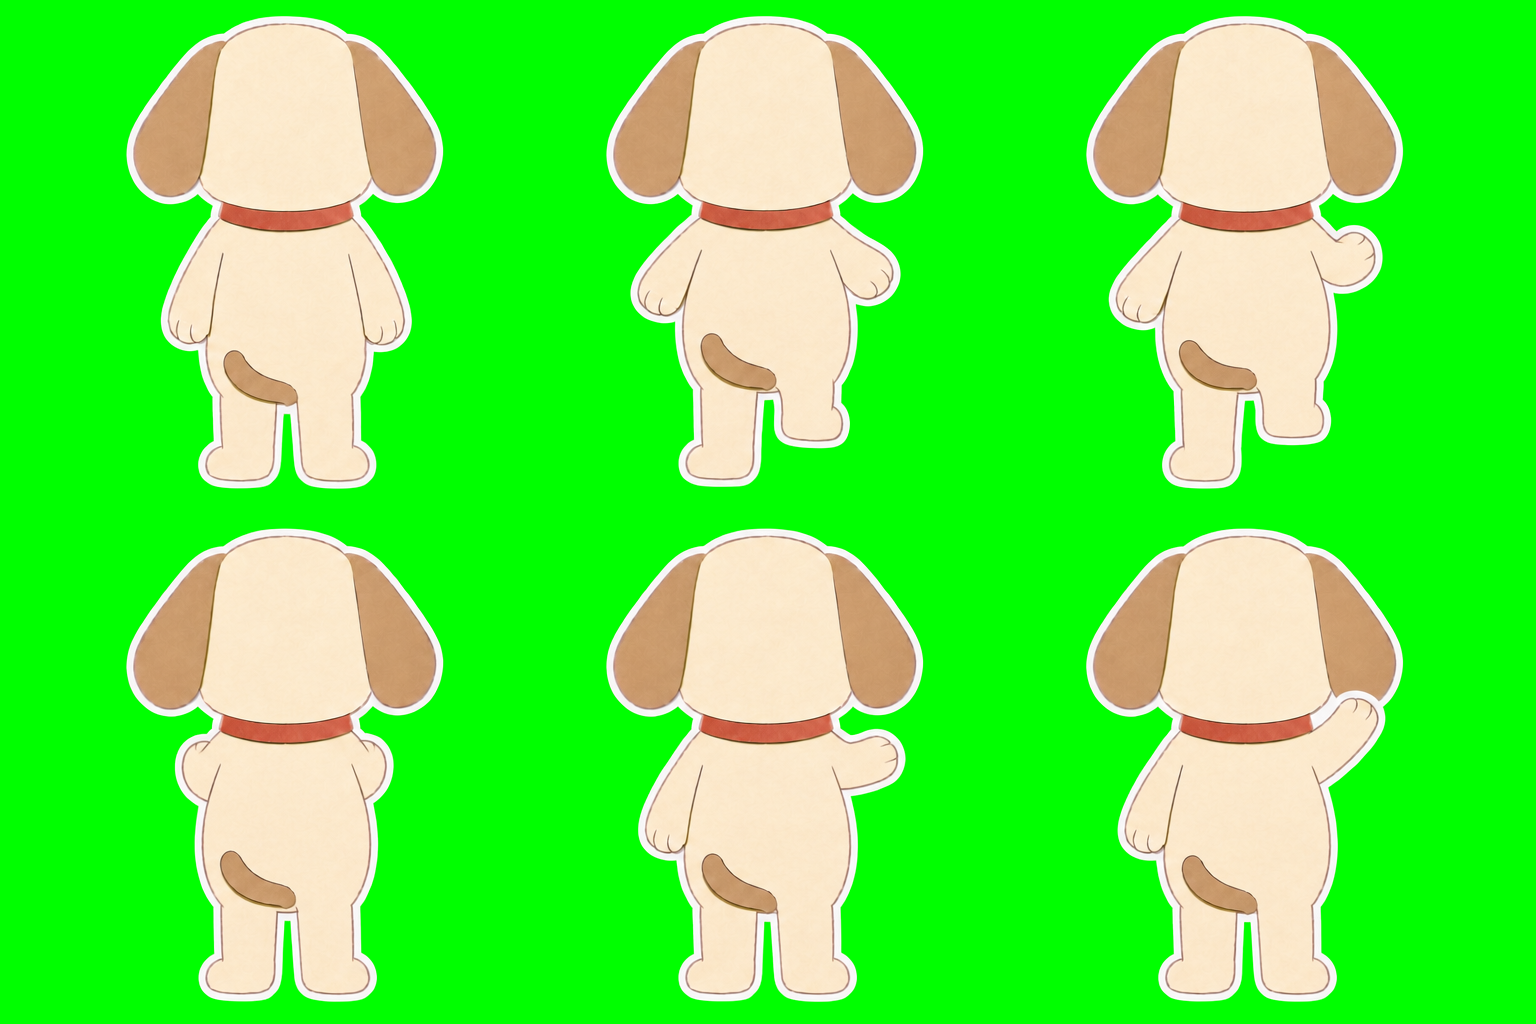
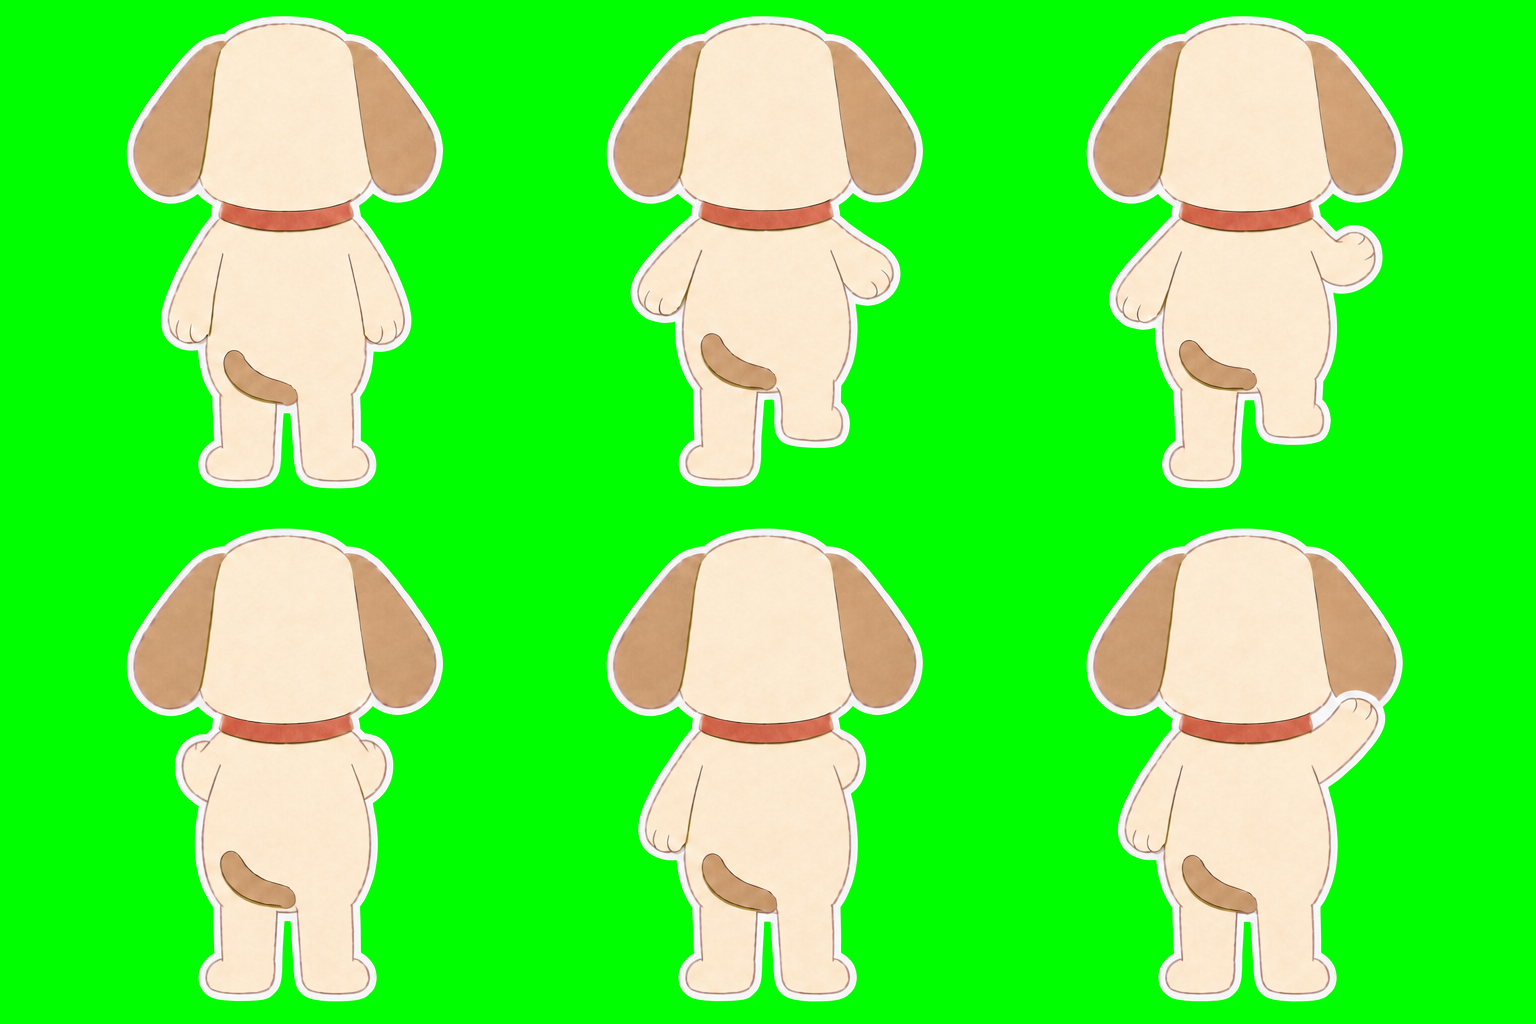
Primepaw: the puppy's pushing cell seen from behind hides the paw
A check of all twelve walk sheets, cell by cell, found the puppy's back sheet
with the same miss the robot's had: the fifth cell, the paw pushed forward, drew
that arm raised out to the side with the paw showing. A GPT Image 2.6 edit (seed
20261144) sends it forward so only a stub shows at the shoulder, like the cat's,
and changes nothing else. pet/dog-walk.png is rebuilt and uploaded to the canvas
as a new asset; the Pets boards name it. The pet README carries the edit, its
prompt and the check's findings, and it and the character skill name the Pets
board by its current name. Canvas v123.

Changed region(s): [[0.5312, 0.6875, 0.5938, 0.7812]]

diff --git a/mockups/primepaw/DioramaPets.dc.html b/mockups/primepaw/DioramaPets.dc.html
@@ -200,7 +200,7 @@ const STATES = [{ id: 'roam', t: 'Roam' }, { id: 'working', t: 'Work' }, { id: '
 const onStandee = (fn) => window.PetStandee ? fn(window.PetStandee) : document.addEventListener('pet-standee', () => fn(window.PetStandee), { once: true });
 const FACING = (dx, dy) => Math.abs(dx) >= Math.abs(dy) ? (dx >= 0 ? 'right' : 'left') : (dy >= 0 ? 'down' : 'up');
 const BUBBLE = { working: 'Writing the parser', attention: 'Needs a staging token' };
-const SHEETS = {"robot":{"layout":"sheet","cols":6,"rows":4,"cell":{"w":256,"h":320},"columns":["stand","stomp-left","stomp-right","work-up","work-forward","wave"],"facings":["down","left","right","up"],"sheet":{"w":1536,"h":1280},"standing":0.86,"src":"/_blob/21d0915356dadf4fbcb2992c973934bc"},"dog":{"layout":"sheet","cols":6,"rows":4,"cell":{"w":256,"h":320},"columns":["stand","stomp-left","stomp-right","work-up","work-forward","wave"],"facings":["down","left","right","up"],"sheet":{"w":1536,"h":1280},"standing":0.86,"src":"/_blob/bd60c38b84f66616f8224e74bdf4d2cf"},"cat":{"layout":"sheet","cols":6,"rows":4,"cell":{"w":256,"h":320},"columns":["stand","stomp-left","stomp-right","work-up","work-forward","wave"],"facings":["down","left","right","up"],"sheet":{"w":1536,"h":1280},"standing":0.86,"src":"/_blob/eea99f7a9ab642aecf06ca931c83d617"}}, WALK_H = 104; // the standing figure's height on the floor
+const SHEETS = {"robot":{"layout":"sheet","cols":6,"rows":4,"cell":{"w":256,"h":320},"columns":["stand","stomp-left","stomp-right","work-up","work-forward","wave"],"facings":["down","left","right","up"],"sheet":{"w":1536,"h":1280},"standing":0.86,"src":"/_blob/21d0915356dadf4fbcb2992c973934bc"},"dog":{"layout":"sheet","cols":6,"rows":4,"cell":{"w":256,"h":320},"columns":["stand","stomp-left","stomp-right","work-up","work-forward","wave"],"facings":["down","left","right","up"],"sheet":{"w":1536,"h":1280},"standing":0.86,"src":"/_blob/35aac9300e6736cfcdaad5c2af995090"},"cat":{"layout":"sheet","cols":6,"rows":4,"cell":{"w":256,"h":320},"columns":["stand","stomp-left","stomp-right","work-up","work-forward","wave"],"facings":["down","left","right","up"],"sheet":{"w":1536,"h":1280},"standing":0.86,"src":"/_blob/eea99f7a9ab642aecf06ca931c83d617"}}, WALK_H = 104; // the standing figure's height on the floor
 const SPEED = 92; // px per second
 // the round: feet points on the floor (x as a share of the floor's width, since the floor is as wide as its column;
 // y in px, since it is always 260 tall), what a walker does when it gets to each corner, and the corner each starts at

diff --git a/mockups/primepaw/DioramaPetsDark.dc.html b/mockups/primepaw/DioramaPetsDark.dc.html
@@ -200,7 +200,7 @@ const STATES = [{ id: 'roam', t: 'Roam' }, { id: 'working', t: 'Work' }, { id: '
 const onStandee = (fn) => window.PetStandee ? fn(window.PetStandee) : document.addEventListener('pet-standee', () => fn(window.PetStandee), { once: true });
 const FACING = (dx, dy) => Math.abs(dx) >= Math.abs(dy) ? (dx >= 0 ? 'right' : 'left') : (dy >= 0 ? 'down' : 'up');
 const BUBBLE = { working: 'Writing the parser', attention: 'Needs a staging token' };
-const SHEETS = {"robot":{"layout":"sheet","cols":6,"rows":4,"cell":{"w":256,"h":320},"columns":["stand","stomp-left","stomp-right","work-up","work-forward","wave"],"facings":["down","left","right","up"],"sheet":{"w":1536,"h":1280},"standing":0.86,"src":"/_blob/21d0915356dadf4fbcb2992c973934bc"},"dog":{"layout":"sheet","cols":6,"rows":4,"cell":{"w":256,"h":320},"columns":["stand","stomp-left","stomp-right","work-up","work-forward","wave"],"facings":["down","left","right","up"],"sheet":{"w":1536,"h":1280},"standing":0.86,"src":"/_blob/bd60c38b84f66616f8224e74bdf4d2cf"},"cat":{"layout":"sheet","cols":6,"rows":4,"cell":{"w":256,"h":320},"columns":["stand","stomp-left","stomp-right","work-up","work-forward","wave"],"facings":["down","left","right","up"],"sheet":{"w":1536,"h":1280},"standing":0.86,"src":"/_blob/eea99f7a9ab642aecf06ca931c83d617"}}, WALK_H = 104; // the standing figure's height on the floor
+const SHEETS = {"robot":{"layout":"sheet","cols":6,"rows":4,"cell":{"w":256,"h":320},"columns":["stand","stomp-left","stomp-right","work-up","work-forward","wave"],"facings":["down","left","right","up"],"sheet":{"w":1536,"h":1280},"standing":0.86,"src":"/_blob/21d0915356dadf4fbcb2992c973934bc"},"dog":{"layout":"sheet","cols":6,"rows":4,"cell":{"w":256,"h":320},"columns":["stand","stomp-left","stomp-right","work-up","work-forward","wave"],"facings":["down","left","right","up"],"sheet":{"w":1536,"h":1280},"standing":0.86,"src":"/_blob/35aac9300e6736cfcdaad5c2af995090"},"cat":{"layout":"sheet","cols":6,"rows":4,"cell":{"w":256,"h":320},"columns":["stand","stomp-left","stomp-right","work-up","work-forward","wave"],"facings":["down","left","right","up"],"sheet":{"w":1536,"h":1280},"standing":0.86,"src":"/_blob/eea99f7a9ab642aecf06ca931c83d617"}}, WALK_H = 104; // the standing figure's height on the floor
 const SPEED = 92; // px per second
 // the round: feet points on the floor (x as a share of the floor's width, since the floor is as wide as its column;
 // y in px, since it is always 260 tall), what a walker does when it gets to each corner, and the corner each starts at

diff --git a/mockups/primepaw/pet/README.md b/mockups/primepaw/pet/README.md
@@ -19,7 +19,7 @@ folder under another id. The `primepaw-character` skill in `.claude/skills/` wal
 building it and wiring it into the picker and the boards. The cat (`cat`) is the second one and the robot dog (`robot`) the third, drawn with that skill from the
 puppy's prompts with their slots refilled; "The characters" below has their values.
 
-See `DioramaPet.dc.html` for the three side by side, with every mood and the standee walking a round.
+See `DioramaPets.dc.html` for the three side by side, with every mood and the standee walking a round.
 
 ## How the peeking puppy plays
 
@@ -89,9 +89,9 @@ height as it turns), and lays them out with the flat cut edge, or the feet, on o
 
 | Id | Picker | Peeking frame | Where | Drawn |
 | --- | --- | --- | --- | --- |
-| `dog` | A paper puppy | 101x104 CSS px | the picker; worn by every board until the robot dog; `DioramaPet.dc.html` | by hand; the prompts below |
-| `cat` | A paper cat | 104x114 CSS px | the picker only, not worn; `DioramaPetCat.dc.html` | by the `primepaw-character` skill; the puppy's prompts with the slots below |
-| `robot` | A paper robot dog | 111x135 CSS px | worn by every board; `DioramaPetRobot.dc.html` | by the `primepaw-character` skill, the first through its options step; the puppy's prompts with the slots below |
+| `dog` | A paper puppy | 101x104 CSS px | the picker; worn by every board until the robot dog; `DioramaPets.dc.html` | by hand; the prompts below |
+| `cat` | A paper cat | 104x114 CSS px | the picker only, not worn; `DioramaPets.dc.html` | by the `primepaw-character` skill; the puppy's prompts with the slots below |
+| `robot` | A paper robot dog | 111x135 CSS px | worn by every board; `DioramaPets.dc.html` | by the `primepaw-character` skill, the first through its options step; the puppy's prompts with the slots below |
 
 The cat's slot values, as the skill's templates in `references/prompts.md` took them:
 
@@ -279,7 +279,7 @@ start.
 
 **The walk sheets** (1536 by 1024, GPT Image 2.6, the turnaround first and the body second, one per
 facing; seeds 20261108 to 20261111 for the puppy, 20261112 to 20261115 for the cat and 20261135 to 20261138 for the robot dog, down, left, right,
-up, every first seed kept but the robot dog's back, edited four times, below). The front: "The first reference image is a character turnaround of the paper cut-out a friendly floppy-eared puppy: its front, its left side, its back and its right side. The second reference image is the same character from the front. Draw the character exactly as the turnaround's first figure, the front shows it (the same cream paper face, kraft brown floppy ears and eye patch, red collar with its tag, pink cheeks, pen-ink features, the white die-cut sticker border), as a stop-motion sprite sheet: a grid of 3 columns and 2 rows, 6 cells of equal size, on a solid flat bright green (#00FF00) background, with no grid lines, no borders, no labels and no text. The 6 cells read left to right along the top row and then along the bottom row. In every cell the character is the same drawing at the same size as in the turnaround, seen straight from the front, facing the viewer, its body upright and square to the viewer in every cell, never turning, its feet on the same ground line, its head, body, ears and tail exactly alike from cell to cell, so that the six cells play as one animation of one figure. The 6 cells: 1. standing still with both paws relaxed at its sides, both feet planted, exactly like the turnaround's first figure, the front; 2. marching on the spot, a stomp: its right foot stays planted flat on the ground and its left foot is lifted a little way straight up off the ground, the foot kept flat and level exactly as it is when standing, the leg a little shorter and bent only a little at the knee, staying directly under the body, the sole never showing, the body a touch higher, the arms swinging, the left paw a little forward and the right a little back; 3. the other stomp: its left foot planted flat and its right foot lifted flat the same way, the arms swinging the other way; 4. working, both paws raised up in front of its chest as if typing on a keyboard; 5. working, one paw pushed forward as if pressing a button; 6. waving hello with one paw raised high above its head. Flat paper, no shadows, no gradients, like a paper puppet moved between photographs."
+up, every first seed kept but the robot dog's back, edited four times, and the puppy's back, edited once for its pushing cell, below). The front: "The first reference image is a character turnaround of the paper cut-out a friendly floppy-eared puppy: its front, its left side, its back and its right side. The second reference image is the same character from the front. Draw the character exactly as the turnaround's first figure, the front shows it (the same cream paper face, kraft brown floppy ears and eye patch, red collar with its tag, pink cheeks, pen-ink features, the white die-cut sticker border), as a stop-motion sprite sheet: a grid of 3 columns and 2 rows, 6 cells of equal size, on a solid flat bright green (#00FF00) background, with no grid lines, no borders, no labels and no text. The 6 cells read left to right along the top row and then along the bottom row. In every cell the character is the same drawing at the same size as in the turnaround, seen straight from the front, facing the viewer, its body upright and square to the viewer in every cell, never turning, its feet on the same ground line, its head, body, ears and tail exactly alike from cell to cell, so that the six cells play as one animation of one figure. The 6 cells: 1. standing still with both paws relaxed at its sides, both feet planted, exactly like the turnaround's first figure, the front; 2. marching on the spot, a stomp: its right foot stays planted flat on the ground and its left foot is lifted a little way straight up off the ground, the foot kept flat and level exactly as it is when standing, the leg a little shorter and bent only a little at the knee, staying directly under the body, the sole never showing, the body a touch higher, the arms swinging, the left paw a little forward and the right a little back; 3. the other stomp: its left foot planted flat and its right foot lifted flat the same way, the arms swinging the other way; 4. working, both paws raised up in front of its chest as if typing on a keyboard; 5. working, one paw pushed forward as if pressing a button; 6. waving hello with one paw raised high above its head. Flat paper, no shadows, no gradients, like a paper puppet moved between photographs."
 
 The other three change the figure the prompt points at and the facing clause: the left side ("second
 figure, the left side"; "from the side in strict profile, turned to face the left edge of the picture, so
@@ -295,3 +295,5 @@ off the ground directly under the body, the back of its heel toward the viewer, 
 never a leg angled out to the side").
 
 **The robot dog's back sheet** came back with two tails in every cell, the one lying across the back and a second hanging between the legs, and it took two edits of it (1536 by 1024, GPT Image 2.6, the sheet itself as the first reference and the body as the second) to land the tail, both opening the way the turnaround's edit did: "The first reference image is a stop-motion sprite sheet of a paper cut-out friendly angular robot hound seen from directly behind, facing straight away from the viewer: a grid of 3 columns and 2 rows, 6 cells of equal size, on a solid flat bright green (#00FF00) background. The second reference image is the same character from the front." The first edit (seed 20261139) took the hanging tail away: "...Reproduce the sprite sheet exactly as it is, every figure the same size and in the same place in its cell, in the same pose, with the same colours, the same pen-ink outlines, the same pen-drawn panel lines, the same faint paper grain and the same white die-cut sticker border around each figure, on the same solid flat bright green background with no grid lines, no borders, no labels and no text, changing only one thing, the same way in every one of the six cells: the robot hound has exactly one tail. Right now each figure shows two tails. The second tail, the short one hanging straight down from the middle of the bottom of its back between its legs, is removed, and that spot becomes plain sheet-white paper back panel (#fbf7ee) with the same pen-drawn panel lines, the two legs meeting the body as before. The one tail that stays is the one already sticking out sideways to the left of the picture: its short pointed kraft brown paper tail (#d9bc86) with its blue tip, starting at the centre of its rump at the bottom of its back right where the two legs meet the body and sticking out across its back to the left with its tip up near the left edge of its body, the whole tail visible, the same size, shape and colours as it is now. Nothing else about any cell changes: the head, the backs of the ears with their blue tips, the back of the red collar, the paws, the feet and each cell's pose stay exactly as they are. Flat paper, no shadows, no gradients, not 3D." It did, but the tail it kept started at the hip, at the side of the body, not at the centre the words asked for. The second (seeds 20261140 and 20261141) moved it: "...changing only one thing, the same way in every one of the six cells: where the tail starts. Right now the tail sticks out from the left hip, from the side of the body. Instead, seen from directly behind, the robot hound's short pointed kraft brown paper tail (#d9bc86) with its blue tip starts at the centre of its rump, in the middle of the bottom of its back right where the two legs meet the body, and sticks out sideways to the left of the picture, lying across the sheet-white back with its tip up near the left edge of the body. The whole tail is visible from behind: its base at the centre of the rump, its length going to the left across the back, its tip pointing up at the left, the same kraft brown paper with the same blue tip, the same pen outline and about the same size as the tail the front view shows peeking out at its hip, which is this same tail seen from the other side. It does not point straight up, does not hang down between the legs and does not start at the side of the body: it starts at the centre and goes to the left. The side of the body where the tail used to stick out becomes plain sheet-white paper (#fbf7ee) with the same panel lines, the white die-cut border following the body's outline there. Nothing else about any cell changes: the head, the backs of the ears with their blue tips, the back of the red collar, the paws, the feet and each cell's pose stay exactly as they are. Flat paper, no shadows, no gradients, not 3D." The first of that pair put the tail at the centre but hanging down between the legs; the second has it starting at the centre and sticking out to the left. That sheet's typing cell, the fourth, still had its arms bent up with the fists beside the shoulders, where the puppy's and the cat's show the upper arms going down the sides with only the elbows out; a third edit (seed 20261142, the same opening and the same two references) put them right: "...changing only one thing, in one cell only: the arms of the fourth cell, the first cell of the bottom row. In that cell the robot hound is working, both paws raised up in front of its chest as if typing on a keyboard, and seen from directly behind its paws and forearms are out of sight in front of its body. Right now that cell's arms are drawn wrong: they are bent upward with the fists raised beside its shoulders, out at the sides. Instead, its two angular sheet-white paper upper arms go straight down from its shoulders along the sides of its body, exactly as they do in the first cell, the one standing still, and about halfway down the body each elbow bends forward so that the forearm and the paw go out of sight in front of the body; from behind only the two elbows show, each poking out a little at the side of the body about halfway down its back, as a small angular sheet-white paper corner with the same pen-ink outline and panel lines, nothing raised above them and no paws visible anywhere. The head, the backs of the ears with their blue tips, the back of the red collar, the body, the tail, the two legs, the feet and the pose of that cell stay exactly as they are, and the white die-cut sticker border follows the arms' new outline. The other five cells do not change at all. Flat paper, no shadows, no gradients, not 3D." It changed that cell alone. The pushing cell, the fifth, still raised its arm out to the side with the paw showing, where the cat's keeps it forward and hidden (the puppy's raises it too); a fourth edit (seed 20261143, the same opening and references) tucked it away: "...changing only one thing, in one cell only: the raised arm of the fifth cell, the middle cell of the bottom row. In that cell the robot hound is working, one paw pushed forward in front of it as if pressing a button, and seen from directly behind the pushed paw and its forearm are out of sight in front of its body. Right now that cell's arm is drawn wrong: the arm on the right side of the picture is raised out to the side at shoulder height with its paw showing. Instead, that arm goes forward from the shoulder, away from the viewer, so that from behind only the shoulder and a short stub of the angular sheet-white paper upper arm show, poking out a little at the right side of the body just below the red collar, with the same pen-ink outline and panel lines, and no paw is visible anywhere; the other arm, on the left side of the picture, stays hanging down at the side exactly as it is now. The head, the backs of the ears with their blue tips, the back of the red collar, the body, the tail, the two legs, the feet and the pose of that cell stay exactly as they are, and the white die-cut sticker border follows the arm's new outline. The other five cells do not change at all. Flat paper, no shadows, no gradients, not 3D." It changed that cell alone and is the sheet in use.
+
+**The puppy's back sheet** had the same pushing cell, its arm raised out to the side with the paw showing, and one edit (seed 20261144; its own sheet first, its body second; the robot's opening with the puppy's words) tucked it away the same way: "...changing only one thing, in one cell only: the raised arm of the fifth cell, the middle cell of the bottom row. In that cell the puppy is working, one paw pushed forward in front of it as if pressing a button, and seen from directly behind the pushed paw and its forearm are out of sight in front of its body. Right now that cell's arm is drawn wrong: the arm on the right side of the picture is raised out to the side at shoulder height with its paw showing. Instead, that arm goes forward from the shoulder, away from the viewer, so that from behind only the shoulder and a short stub of the cream paper upper arm show, poking out a little at the right side of the body just below the red collar, with the same pen-ink outline, and no paw is visible anywhere; the other arm, on the left side of the picture, stays hanging down at the side exactly as it is now. The head, the backs of the floppy kraft brown ears, the back of the red collar, the cream body, the kraft brown tail, the two legs, the feet and the pose of that cell stay exactly as they are, and the white die-cut sticker border follows the arm's new outline. The other five cells do not change at all. Flat paper, no shadows, no gradients, not 3D." It changed that cell alone and is the sheet in use. The cat's sheets needed nothing: a check of all twelve walk sheets, cell by cell, found only these two pushing cells clearly off, and the front stomps of the robot dog and the puppy lifting the foot angled rather than flat, which was left as it reads fine in motion.

diff --git a/mockups/primepaw/.claude/skills/primepaw-character/SKILL.md b/mockups/primepaw/.claude/skills/primepaw-character/SKILL.md
@@ -16,7 +16,7 @@ all read those cuts by name, so a new character is a new set of files under `pet
 | The standee | `pet/<id>-walk.png`, the Factory Overseer's pet sheet: 6 columns (standing, the two stomps of a walk, two beats of work, a wave) by 4 facings, every cell one drawing of the whole figure; `pet/<id>-walk.json`, what each holds; `pet/standee.js` plays it one cell at a time | The factory floor, and the Pet board's mock of it, as `.standee` |
 | The sources | `pet/src/<id>/`: the six mood sheets, `avatar.png`, `body.png`, `turnaround.png` (the character from its four sides, which the walk sheets copy) and four `walk-*.png` (each facing's six poses of the standee), all on chroma-key green, plus `base.png`, the drawing the edits started from and the peeking pose the mood sheets copy | Inputs to `build.py`; kept so any cut can be re-sliced or redrawn from the same base (the puppy's base was not kept; `peek.png`, one cell of its first idle sheet, stands in for it) |
 
-Read `pet/README.md` once: it is the puppy's own account of the same system, and `DioramaPet.dc.html`
+Read `pet/README.md` once: it is the puppy's own account of the same system, and `DioramaPets.dc.html`
 shows the three cuts side by side with every mood and the standee walking.
 
 ## The style that does not change
